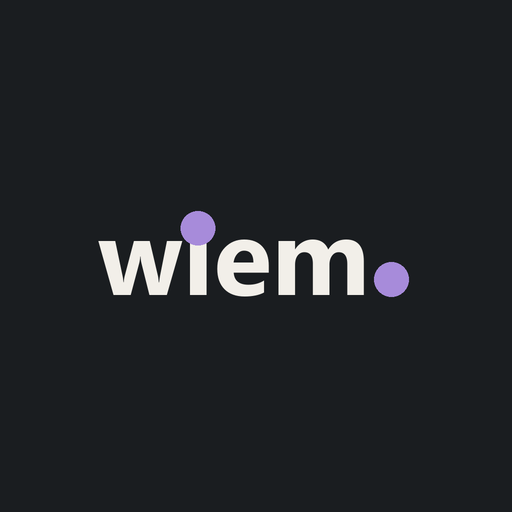
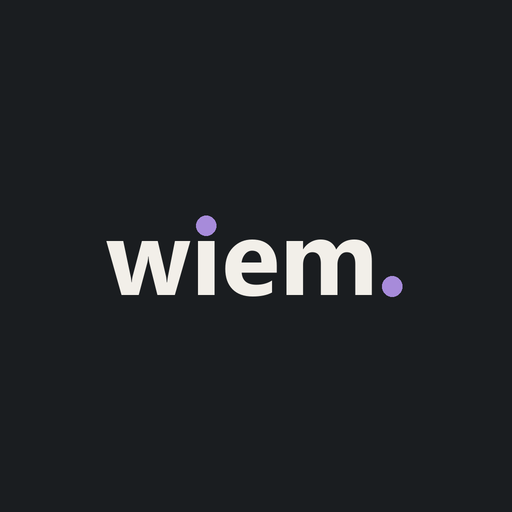
fix: kropka nad i nie wchodzi juz na litere - pomiar bez odstepu

Changed region(s): [[0.1875, 0.4062, 0.8125, 0.5938]]

diff --git a/static/style.css b/static/style.css
@@ -649,19 +649,19 @@ tr:hover td { background: var(--hover); }
   left: 50%;
   /* wartosci policzone z metryk kroju: dokladnie tam, gdzie Segoe UI stawia
      wlasna kropke nad "i", tylko wieksza i w kolorze marki */
-  top: .300em;
-  width: .321em;
-  height: .321em;
-  margin-left: -.1605em;
+  top: .342em;
+  width: .190em;
+  height: .190em;
+  margin-left: -.095em;
   border-radius: 50%;
   background: var(--marka);
 }
 /* kropka koncowa rysowana tak samo jak ta nad "i" — rownej wielkosci */
 .logo .lg-kropka {
   display: inline-block;
-  width: .321em;
-  height: .321em;
-  margin-left: .10em;
+  width: .190em;
+  height: .190em;
+  margin-left: .085em;
   border-radius: 50%;
   background: var(--marka);
   text-indent: -9999px;
